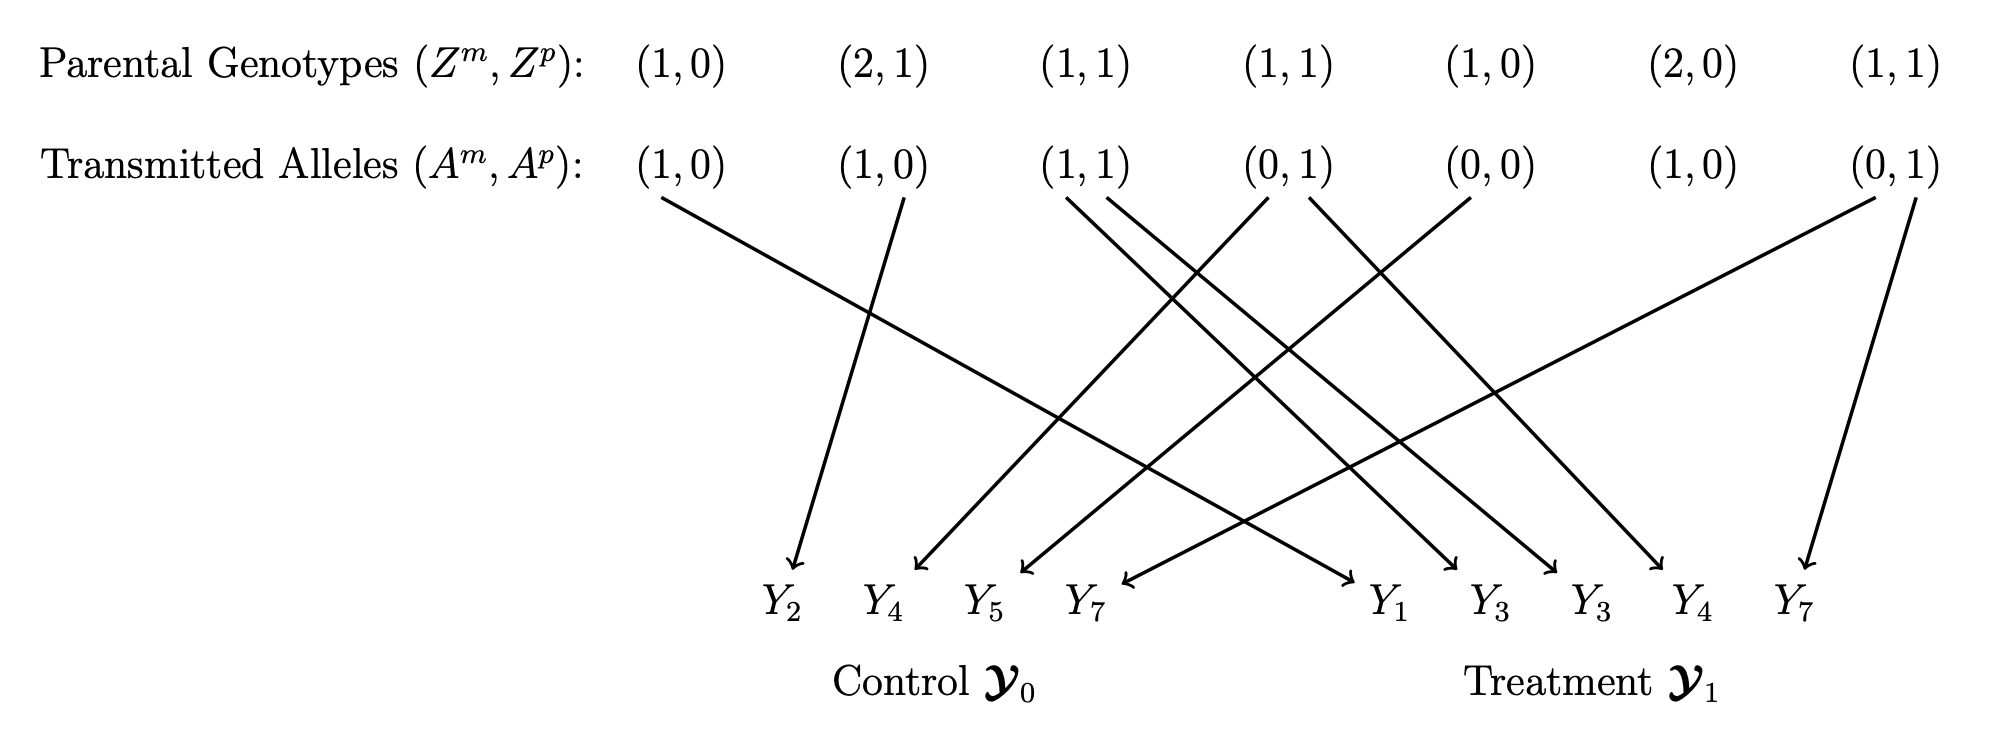
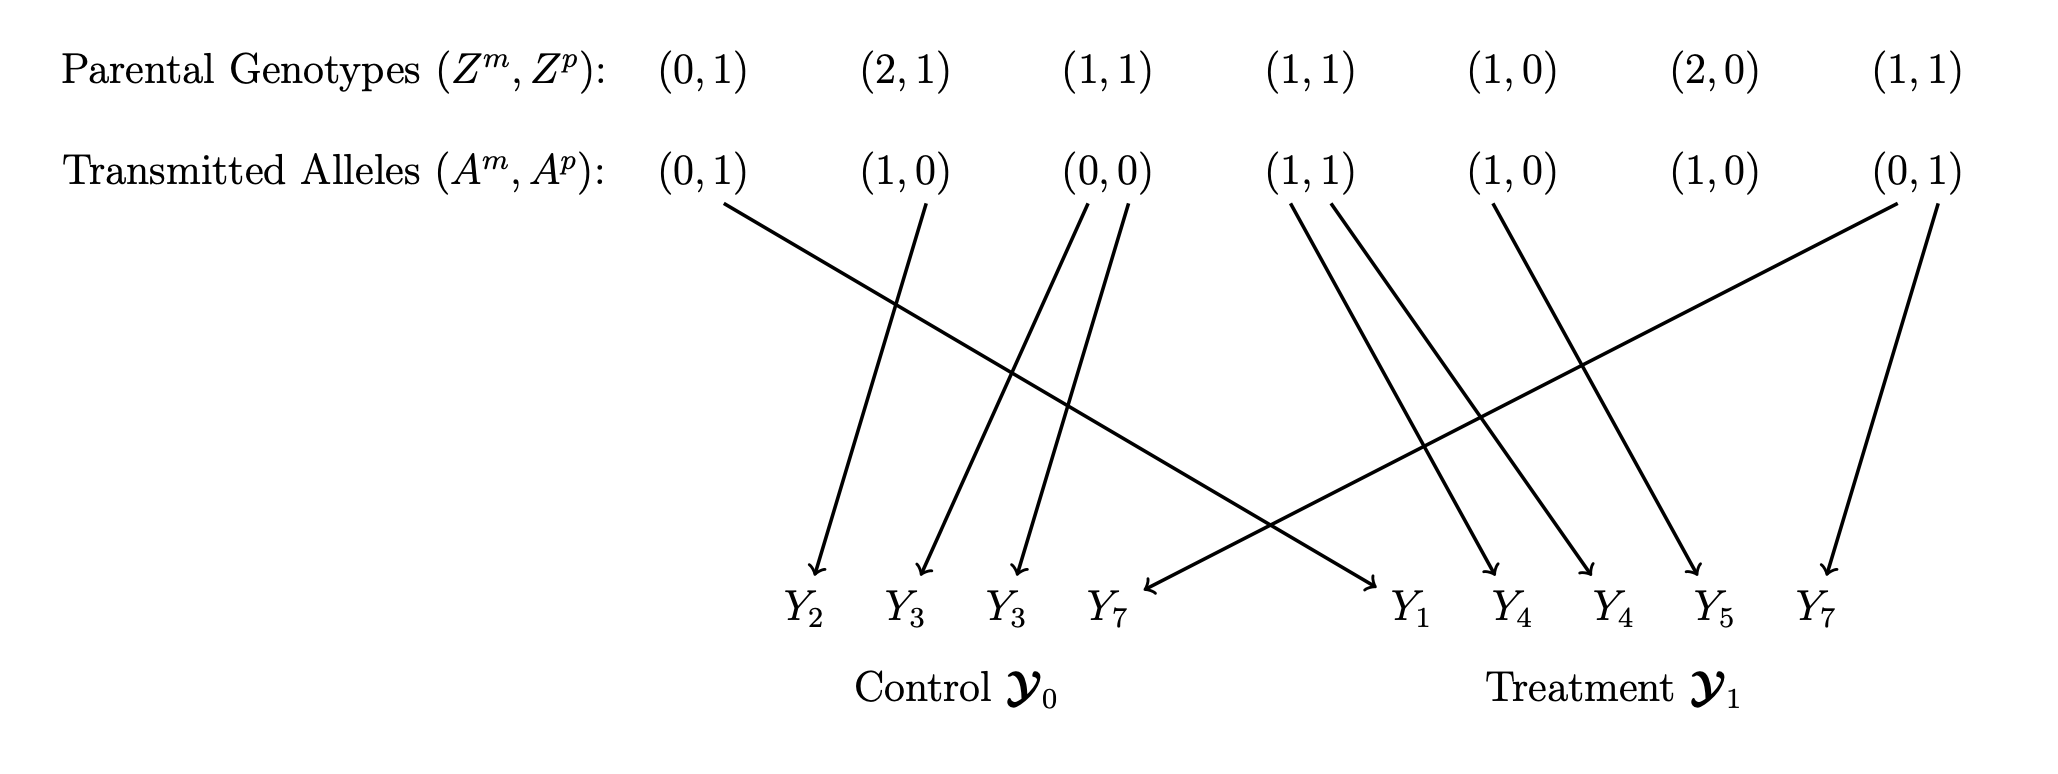
figure 1 and 2 biorxiv version

diff --git a/manuscript/figures/figure1.tex b/manuscript/figures/figure1.tex
@@ -158,29 +158,29 @@
 
 \path
 ($(T) + (-2, 0)$) node(t1) {$Y_1$}
-($(T) + (-1, 0)$) node(t2) {$Y_3$}
-($(T) + (0, 0)$) node(t3) {$Y_3$}
-($(T) + (1, 0)$) node(t4) {$Y_4$}
+($(T) + (-1, 0)$) node(t2) {$Y_4$}
+($(T) + (0, 0)$) node(t3) {$Y_4$}
+($(T) + (1, 0)$) node(t4) {$Y_5$}
 ($(T) + (2, 0)$) node(t5) {$Y_7$}
 ($(C) + (-2, 0)$) node(c1) {$Y_2$}
-($(C) + (-1, 0)$) node(c2) {$Y_4$}
-($(C) + (0, 0)$) node(c3) {$Y_5$}
+($(C) + (-1, 0)$) node(c2) {$Y_3$}
+($(C) + (0, 0)$) node(c3) {$Y_3$}
 ($(C) + (1, 0)$) node(c4) {$Y_7$}
 ($(T) + (0, -.8)$) node(treatment) {Treatment $\boldsymbol{\mathcal{Y}}_1$}
 ($(C) + (-.5, -.8)$) node(control) {Control $\boldsymbol{\mathcal{Y}}_0$}
 ($(mp)$) node(mp) {Transmitted Alleles $(A^m,A^p)$:}
-($(y1) + (0, 1.3)$) node(g1) {$(1, 0)$}
+($(y1) + (0, 1.3)$) node(g1) {$(0, 1)$}
 ($(y2) + (0, 1.3)$) node(g2) {$(1, 0)$}
-($(y3) + (0, 1.3)$) node(g3) {$(1, 1)$}
-($(y4) + (0, 1.3)$) node(g4) {$(0, 1)$}
-($(y5) + (0, 1.3)$) node(g5) {$(0, 0)$}
+($(y3) + (0, 1.3)$) node(g3) {$(0, 0)$}
+($(y4) + (0, 1.3)$) node(g4) {$(1, 1)$}
+($(y5) + (0, 1.3)$) node(g5) {$(1, 0)$}
 ($(y6) + (0, 1.3)$) node(g6) {$(1, 0)$}
 ($(y7) + (0, 1.3)$) node(g7) {$(0, 1)$};
 
 \path
 % ($(H) + (-3.6, 0.5)$) node(data) { \textbf{A}}
 ($(H)$) node(data) {Parental Genotypes $(Z^m,Z^p)$:}
-($(y1) + (0, 2.3)$) node(g1) {$(1, 0)$}
+($(y1) + (0, 2.3)$) node(g1) {$(0, 1)$}
 ($(y2) + (0, 2.3)$) node(g2) {$(2, 1)$}
 ($(y3) + (0, 2.3)$) node(g3) {$(1, 1)$}
 ($(y4) + (0, 2.3)$) node(g4) {$(1, 1)$}
@@ -201,15 +201,16 @@
 % \draw[->, line width = 1, color = black] (y7m) to [out=270,in=90] (c4);
 
 %straight arrow line
-\draw[->, line width = 1, color = black] (y1m) to (t1);
-\draw[->, line width = 1, color = black] (y3m) to (t2);
-\draw[->, line width = 1, color = black] (y3p) to (t3);
-\draw[->, line width = 1, color = black] (y4p) to (t4);
+\draw[->, line width = 1, color = black] (y1p) to (t1);
+\draw[->, line width = 1, color = black] (y4m) to (t2);
+\draw[->, line width = 1, color = black] (y4p) to (t3);
+\draw[->, line width = 1, color = black] (y5m) to (t4);
 \draw[->, line width = 1, color = black] (y7p) to (t5);
 
+
 \draw[->, line width = 1, color = black] (y2p) to (c1);
-\draw[->, line width = 1, color = black] (y4m) to (c2);
-\draw[->, line width = 1, color = black] (y5m) to (c3);
+\draw[->, line width = 1, color = black] (y3m) to (c2);
+\draw[->, line width = 1, color = black] (y3p) to (c3);
 \draw[->, line width = 1, color = black] (y7m) to (c4);
 
 \end{tikzpicture}

diff --git a/manuscript/figures/figure2.tex b/manuscript/figures/figure2.tex
@@ -168,10 +168,10 @@
 ($(C) + (1, -.6)$) node(control) {Control (size $N_0$)}
 ($(mp)$) node(mp) {Case Alleles $(A^m,A^p)|Y=1$:}
 ($(Y1) + (0, 1)$) node(g1) {$(1, 1)$}
-($(Y2) + (0, 1)$) node(g2) {$(1, 0)$}
+($(Y2) + (0, 1)$) node(g2) {$(0, 0)$}
 ($(Y3) + (0, 1)$) node(g3) {$(0, 1)$}
 ($(Y4) + (0, 1)$) node(g4) {$(1, 0)$}
-($(Y5) + (0, 1)$) node(g5) {$(1, 0)$}
+($(Y5) + (0, 1)$) node(g5) {$(1, 1)$}
 ($(Y6) + (0, 1)$) node(g6) {$(0, 0)$}
 ($(Y7) + (0, 1)$) node(g7) {$(0, 1)$};
 
@@ -199,13 +199,13 @@
 
 % straight arrow lines
 \draw[->, line width = 1, color = black] (y1m) to (t1);
-\draw[->, line width = 1, color = black] (y2m) to (t2);
-\draw[->, line width = 1, color = black] (y3p) to (t3);
-\draw[->, line width = 1, color = black] (y5m) to (t4);
+\draw[->, line width = 1, color = black] (y3p) to (t2);
+\draw[->, line width = 1, color = black] (y5m) to (t3);
+\draw[->, line width = 1, color = black] (y5p) to (t4);
 \draw[->, line width = 1, color = black] (y7p) to (t5);
-\draw[->, line width = 1, color = black] (y2p) to (c1);
-\draw[->, line width = 1, color = black] (y3m) to (c2);
-\draw[->, line width = 1, color = black] (y5p) to (c3);
+\draw[->, line width = 1, color = black] (y2m) to (c1);
+\draw[->, line width = 1, color = black] (y2p) to (c2);
+\draw[->, line width = 1, color = black] (y3m) to (c3);
 \draw[->, line width = 1, color = black] (y6m) to (c4);
 
 \end{tikzpicture}
